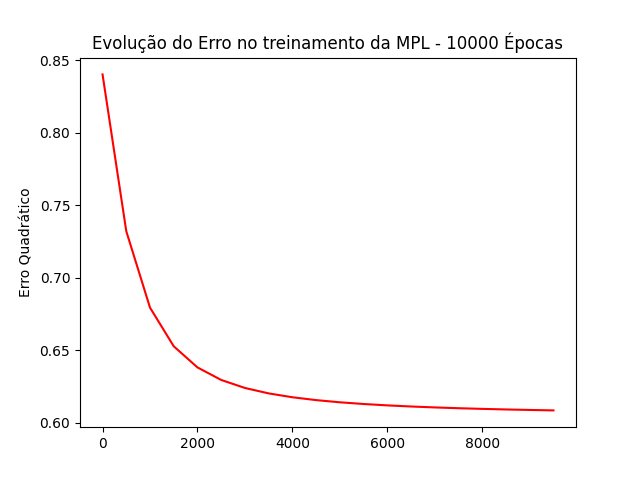
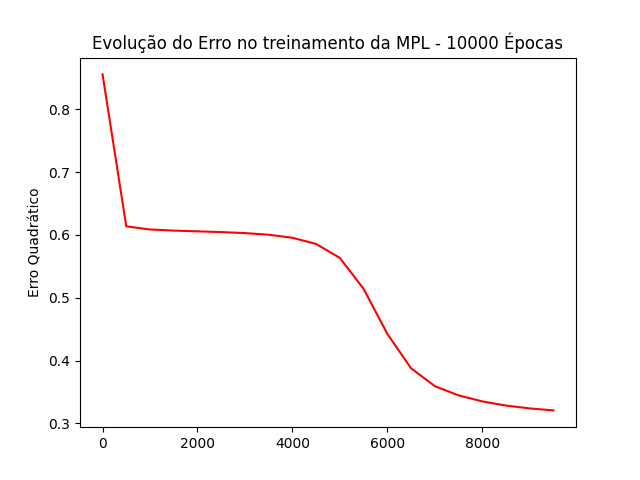
feat: Adjusts model to only one hidden layer

diff --git a/model_training.py b/model_training.py
@@ -34,14 +34,12 @@ def train_test_split(X, y):
 def model_setup():
 
     N_input = 2 # Nº de  features
-    N_hidden1 = 4
-    N_hidden2 = 5
+    N_hidden = 6
     N_output = 2
-    weights_input_hidden = np.random.normal(0, scale=0.1, size=(N_input, N_hidden1))
-    weights_hidden_hidden = np.random.normal(0, scale=0.1, size=(N_hidden1, N_hidden2))
-    weights_hidden_output = np.random.normal(0, scale=0.1, size=(N_hidden2, N_output))
+    weights_input_hidden = np.random.normal(0, scale=0.1, size=(N_input, N_hidden))
+    weights_hidden_output = np.random.normal(0, scale=0.1, size=(N_hidden, N_output))
 
-    return weights_input_hidden, weights_hidden_hidden, weights_hidden_output
+    return weights_input_hidden, weights_hidden_output
 
 
 def sigmoid(x):
@@ -52,25 +50,21 @@ def fit(X_train, y_train, X_test, y_test):
     n_records, n_features = X_train.shape
     learn_rate = 0.1
 
-    weights_input_hidden, weights_hidden_hidden, weights_hidden_output = model_setup()
+    weights_input_hidden, weights_hidden_output = model_setup()
     epochs = 100000
     last_loss = None
     evolution_error = []
     index_error = []
 
     for e in range(epochs):
-        delta_w_i_h1 = np.zeros(weights_input_hidden.shape)
-        delta_w_h1_h2 = np.zeros(weights_hidden_hidden.shape)
-        delta_w_h2_o = np.zeros(weights_hidden_output.shape)
+        delta_w_i_h = np.zeros(weights_input_hidden.shape)
+        delta_w_h_o = np.zeros(weights_hidden_output.shape)
 
         for xi, yi in zip(X_train.values, y_train.values):
-            hidden1_layer_input = np.dot(xi, weights_input_hidden)
-            hidden1_layer_output = sigmoid(hidden1_layer_input)
+            hidden_layer_input = np.dot(xi, weights_input_hidden)
+            hidden_layer_output = sigmoid(hidden_layer_input)
 
-            hidden2_layer_input = np.dot(hidden1_layer_output, weights_hidden_hidden)
-            hidden2_layer_output = sigmoid(hidden2_layer_input)
-
-            output_layer_input = np.dot(hidden2_layer_output, weights_hidden_output)
+            output_layer_input = np.dot(hidden_layer_output, weights_hidden_output)
             output = sigmoid(output_layer_input)
 
             # Erro
@@ -79,36 +73,23 @@ def fit(X_train, y_train, X_test, y_test):
             output_error_term = error * output * (1 - output)
 
             # Calcula a distribuição da 2º camada oculta para o erro
-            hidden2_error = np.dot(weights_hidden_output, output_error_term)
+            hidden_error = np.dot(weights_hidden_output, output_error_term)
 
             # Gradiente da 2ª Camada Oculta
-            hidden2_error_term = hidden2_error * hidden2_layer_output * (1 - hidden2_layer_output)
+            hidden_error_term = hidden_error * hidden_layer_output * (1 - hidden_layer_output)
 
-            # Calcula a distribuição da 1º camada oculta para o erro
-            hidden1_error = np.dot(weights_hidden_hidden, hidden2_error_term)
-
-            # Gradiente da 1ª Camada Oculta
-            hidden1_error_term = hidden1_error * hidden1_layer_output * (1 - hidden1_layer_output)
-
-            delta_w_h2_o += output_error_term * hidden2_layer_output[:, None]
-
-            delta_w_h1_h2 += hidden2_error_term * hidden1_layer_output[:, None]
+            delta_w_h_o += output_error_term * hidden_layer_output[:, None]
 
             # Calcula a variação do peso da camada oculta
-            delta_w_i_h1 += hidden1_error_term * xi[:, None]
+            delta_w_i_h += hidden_error_term * xi[:, None]
 
         # Atualização dos pesos na época atual
-        weights_input_hidden += learn_rate * delta_w_i_h1 / n_records
-        weights_hidden_hidden += learn_rate * delta_w_h1_h2 / n_records
-        weights_hidden_output += learn_rate * delta_w_h2_o / n_records
+        weights_input_hidden += learn_rate * delta_w_i_h / n_records
+        weights_hidden_output += learn_rate * delta_w_h_o / n_records
 
         if e % (epochs / 20) == 0:
-            hidden2_input = sigmoid(np.dot(xi, weights_input_hidden))
-            hidden2_output = sigmoid(np.dot(hidden2_input, weights_hidden_hidden))
-            # print("hidden_output.shape", hidden_output.shape)
-            # print("weights_input_hidden.shape", weights_input_hidden.shape)
-            # return
-            out = sigmoid(np.dot(hidden2_output, weights_hidden_output))
+            hidden_output = sigmoid(np.dot(xi, weights_input_hidden))
+            out = sigmoid(np.dot(hidden_output, weights_hidden_output))
             loss = np.mean((out - yi) ** 2)
 
             if last_loss and last_loss < loss:
@@ -118,26 +99,22 @@ def fit(X_train, y_train, X_test, y_test):
             last_loss = loss
             evolution_error.append(loss)
             index_error.append(e)
-        else:
-            print("Época: {0}".format(e))
 
 
     plot_error_evolution(index_error, evolution_error, epochs)
-    evaluate(X_test, y_test, weights_input_hidden, weights_hidden_hidden, weights_hidden_output)
+    evaluate(X_test, y_test, weights_input_hidden, weights_hidden_output)
 
-def evaluate(X_test, y_test, weights_input_hidden, weights_hidden_hidden, weights_hidden_output):
+def evaluate(X_test, y_test, weights_input_hidden, weights_hidden_output):
     
     n_records, n_features = X_test.shape
     predictions = 0
 
     for xi, yi in zip(X_test.values, y_test.values):
-        hidden1_layer_input = np.dot(xi, weights_input_hidden)
+        hidden_layer_input = np.dot(xi, weights_input_hidden)
 
-        hidden1_layer_output = sigmoid(hidden1_layer_input)
+        hidden_layer_output = sigmoid(hidden_layer_input)
 
-        hidden2_layer_input = np.dot(hidden1_layer_output, weights_hidden_hidden)
-
-        output_layer_in = np.dot(hidden2_layer_input, weights_hidden_output)
+        output_layer_in = np.dot(hidden_layer_output, weights_hidden_output)
 
         output = sigmoid(output_layer_in)
 
